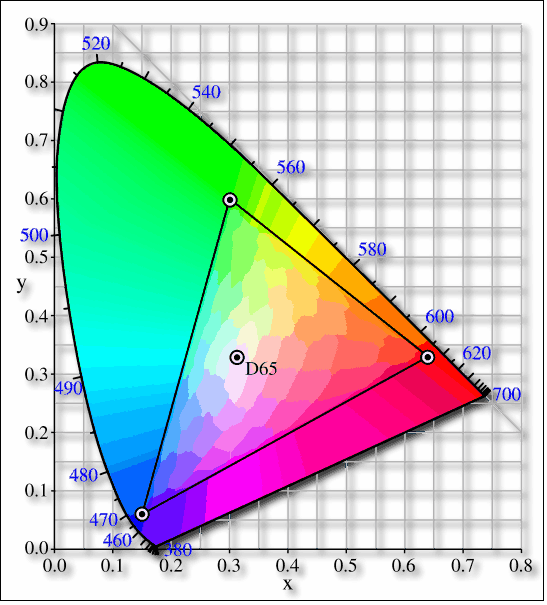
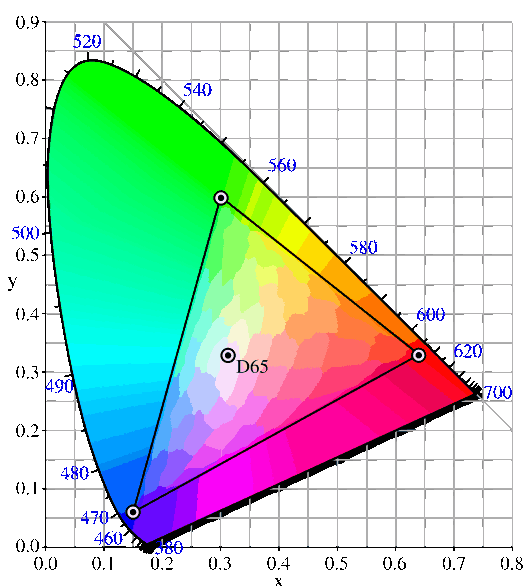
editor++

diff --git a/image_editor/raw_processing.rst b/image_editor/raw_processing.rst
@@ -15,8 +15,8 @@ RAW Processing
 
 .. contents::
 
-Color Management Overview
--------------------------
+The Color Management
+--------------------
 
 The point of a color-managed workflow is to ensure that the colors coming from your camera or scanner have a predictable relationship with the colors you actually photographed or scanned, that the colors displayed on your monitor match the colors coming from your camera or scanner, and that the colors you print or display on the web match the colors you produced in your digital darkroom.
 
@@ -45,7 +45,7 @@ If your imaging workflow meets all six criteria listed below, then you don't nee
     Your only other image output is via email or the web, where sRGB is the de facto standard.
 
 More definitions about Color Management
----------------------------------------
+~~~~~~~~~~~~~~~~~~~~~~~~~~~~~~~~~~~~~~~
 
 You've reached the end of this tutorial on color management. We've "color-managed" our way all the way from the camera and the monitor, to the working space, to the printer. I've learned a lot and I hope you have, too. What follow is some additional comments and definitions:
 
@@ -80,7 +80,7 @@ Copyrighted and copyleft working spaces: I will take it as given that all the or
 And quite a few other working spaces that could be added to this list, are all more or less suitable as working spaces. Which working space you should use depends only and solely on you, on your requirements as the editor of your digital images with your eventual output intentions (web, fine art print, etc.). However, as a critical aside, if you are using Adobe or other copyrighted working space profiles, these profiles contain copyright information that shows up in your image exif information. Lately I've been perusing the openicc mailing lists. Apparently LCMS can be used to produce nonbranded, copyleft working space profiles that are just the same as - actually indistinguishable from - the branded, copyrighted working space profiles. It would be a wonderful addition to digiKam if a set of "copyleft" working space profiles, including nonbranded, relabelled versions of ProPhotoRGB, AdobeRGB, and Adobe WidegamutRGB (perhaps in two flavors each: linear gamma and the usual gamma), could be bundled as part of the digiKam package.
 
 The Color Space Connections
----------------------------
+~~~~~~~~~~~~~~~~~~~~~~~~~~~
 
 So the question for each RGB trio of values in the (let us assume) 16-bit tiff produced by dcraw becomes, "What does a particular trio of RGB values for the pixels making up images produced by this particular (make and model) camera really mean in terms of some absolute standard referencing some ideal observer". This absolute standard referencing an ideal observer is more commonly called a Profile Connection Space. A camera profile is needed to accurately characterize or describe the response of a given camera's pixels to light entering that camera, so that the RGB values in the output file produced by the raw converter can be translated first into an absolute Profile Connection Space (PCS) and then from the PCS to your chosen working space. As a very important aside, for most of the open source world (including digikam), the software used to translate from the camera profile to the PCS and from the PCS to your chosen working space and eventually to your chosen output space (for printing or perhaps monitor display) is based on lcms (the little color management engine). For what it's worth, my own testing has shown that lcms does more accurate conversions than Adobe's proprietary color conversion engine. Further, for almost all raw conversion programs, including commercial closed source software such as Adobe Photoshop, the raw conversion is typically based on decoding of the proprietary raw file done by dcraw. David Coffin, author of dcraw, is the hero of raw conversion - without him we'd all be stuck using the usually windows/mac only proprietary software that comes with our digital cameras. The dcraw's interpolation algorithms (not to be confused with the aforementioned decoding of the proprietary raw file), which are part of digiKam if properly used, produce results equal or superior to commercial, closed source software. We in the world of Linux® and open source software are not second-class citizens when it comes to digital imaging. Far from.
 
@@ -97,19 +97,19 @@ There are two commonly used Profile Connection Spaces - CIELAB and CIEXYZ (see C
 To back up a little bit and look at the first color profile an image encounters, that is, the camera profile (see (1) immediately above) - dcraw can in fact apply your camera profile for you (dcraw uses lcms internally). But (i)the generating of the tiff composed of the interpolated RGB values derived from the camera raw file, and (ii)the application of the camera profile to the interpolated file, are two very distinct and totally separable (separable in theory and practice for dcraw; in theory only for most raw converters) steps. The dcraw command line output options "-o 0 [Raw color (unique to each camera)] -4 [16-bit linear] -T [tiff]" tell dcraw to output the RGB numbers from the raw interpolation into a tiff without applying a camera input profile (the words in brackets explain the options but should not be entered at the command line). Then, if you truly enjoy working from the command line, you can use the lcms utility tifficc to apply your camera profile yourself. The advantage of doing so is that you can tell lcms to use high quality conversion (dcraw seems to use the lcms default medium). The disadvantage, of course, is that applying your camera profile from the command line adds one extra step to your raw workflow.
 
 Where to find camera profiles
------------------------------
+~~~~~~~~~~~~~~~~~~~~~~~~~~~~~
 
 So where do we get these elusive and oh-so-necessary camera-specific profiles that we need to translate our interpolated raw files to a working color space? The UFRAW website section on color management has a bit of information on where to find ready-made camera profiles. It's an unfortunate fact of digital imaging that the camera profiles supplied by Canon, Nikon, and the like don't work as well with raw converters other than each camera manufacturer's own proprietary raw converter. Which is why Bibble and Phase One (and Adobe, but ACR hides the Adobe-made profiles inside the program code), for example, have to make their own profiles for all the cameras that they support - keep this proprietary propensity of your camera manufacturer in mind next time you buy a digital camera.
 
 But back to finding a camera profile for your camera - the real answer (assuming you don't find a ready-made profile that makes you happy) is to make your own camera profile or have one made for you. There are quite a few commercial services who provide profiling services (for a fee, of course). Or you can use LPRof or Argyll to profile your camera yourself. I haven't yet walked down that road so I cannot speak about how easy or difficult the process of profiling a camera might be. But I would imagine, knowing how very meticulous the people behind Argyll, LPRof, and lcms are about color management, that making your own camera profile is very do-able and very likely the results will be better than any proprietary profile. After all, Canon (and also Bibble and Phase One for that matter) didn't profile MY camera - they just profiled a camera like mine.
 
 Working Spaces
---------------
+~~~~~~~~~~~~~~
 
 So now your raw file has been interpolated by dcraw and you've obtained a camera profile and used lcms tifficc to apply your camera profile to the tiff produced by dcraw (or you've asked dcraw to apply it for you). What does all this mean? The real answer involves a lot of math and color science that goes way over my head and likely yours. The short, practical answer is that neither the camera profile space nor the Profile Connection Space is an appropriate space for image editing. Your next step is to choose a working space for image editing. And then you (or rather the lcms color management engine that your open source digital imaging software uses) actually perform a double translation. First lcms uses the camera profile to translate the RGB values of each pixel in the dcraw-output-image-without-camera-profile-applied into the aforementioned Profile Connection Space. Then it translates the RGB values of each pixel from the PCS to your chosen working space.
 
 Confusions and confusing terminology
-------------------------------------
+~~~~~~~~~~~~~~~~~~~~~~~~~~~~~~~~~~~~
 
 Before talking more about working spaces, some confusions and confusing terminology needs to be cleared up:
 
@@ -126,7 +126,7 @@ Sixth (and again, strictly for future reference), assign a profile means change 
 Finally, (and this is a crucially important point), color management is NOT only relevant if you shoot raw. Color management affects every stage of the image processing pipeline, whether you start with a raw file that you, yourself interpolate and translate into a tiff, or if you start with a jpeg or tiff produced by your camera.
 
 Copyrighted and copyleft working spaces
----------------------------------------
+~~~~~~~~~~~~~~~~~~~~~~~~~~~~~~~~~~~~~~~
 
 I will take it as given that ALL the ordinarily encountered working spaces, such as:
 
@@ -143,7 +143,7 @@ I will take it as given that ALL the ordinarily encountered working spaces, such
 However, as a critical aside, if you are using Adobe (or other copyrighted) working space profiles, these profiles contain copyright information that shows up in your image exif information. Lately I've been perusing the openicc mailing lists. Apparently lcms can be used to produce nonbranded, copyleft working space profiles that are just the same as - actually indistinguishable from - the branded, copyrighted working space profiles. It would be a wonderful addition to digikam if a set of "copyleft" working space profiles, including nonbranded, relabelled versions of ProPhotoRGB, AdobeRGB, and Adobe WidegamutRGB (perhaps in two flavors each: linear gamma and the usual gamma), could be bundled as part of the digiKam package.
 
 Which working space: gamma
---------------------------
+~~~~~~~~~~~~~~~~~~~~~~~~~~
 
 Now, the next question is: which working space should I use? Wikipedia says:
 
@@ -157,7 +157,7 @@ I am not aware of a list of other technical requirements for a suitable working 
 
     White point, usually D50 or D65, which dictates the total dynamic range of the working space, from 0,0,0 (total black) to the brightest possible white.
 
-    Gamma. 
+    Gamma.
 
 The practical consequences that result from using different RGB primaries, leading to larger or smaller working spaces, are discussed below. The practical consequences for different choices for the working space white point are beyond the scope of this tutorial. Here I will talk a little bit about the practical consequences of the working space gamma (for an excellent article and references, look up gamma on wikipedia).
 
@@ -176,7 +176,7 @@ In addition to gamma 1.8 and gamma 2.2 the only other gamma for a working space 
 Unfortunately and despite their undeniable mathematical advantages, linear gamma working spaces have so few tones in the shadows that (in my opinion) they are impossible to use for editing if one is working in 8-bits, and still problematic at 16-bits. When the day comes when we are all doing our editing on 32-bit files produced by our HDR cameras on our personal supercomputers, I predict that we will all be using working spaces with gamma 1; Adobe Lightroom is already using a linear gamma working space "under the hood" and Lightzone has always used a linear gamma working space.
 
 Which working space: large gamut or small gamut
------------------------------------------------
+~~~~~~~~~~~~~~~~~~~~~~~~~~~~~~~~~~~~~~~~~~~~~~~
 
 One major consideration in choosing a working space is that some working spaces are bigger than others, meaning they cover more of the visible spectrum (and perhaps even include some imaginary colors - mathematical constructs that don't really exist). These bigger spaces offer the advantage of allowing you to keep all the colors captured by your camera and preserved by the lcms conversion from your camera profile to the really big profile connection space.
 
@@ -195,12 +195,12 @@ In other words, large gamut working spaces, improperly handled, can lead to lost
 The whys of these bits of advice regarding which working space are beyond the scope of this tutorial. See Bruce Lindbloom's excellent website (Info, Information about RGB Working Spaces) for a visual comparison of the gamut (array of included colors) of the various working color spaces. See here and here for a pro and con presentation, respectively, of the merits of using large gamut working spaces. And while you are on the cambridgeincolour.com website, check out the tutorial on color management.
 
 Soft Proofing
--------------
+~~~~~~~~~~~~~
 
 Soft Proofing is a way of previewing on the screen (monitor) the result to be expected from an output on another device, typically a printer. Soft proofing will show you the difference to be expected before you actually do it (and waste your costly ink). So you can improve your settings without wasting time and money.
 
 Rendering intention
--------------------
+~~~~~~~~~~~~~~~~~~~
 
 Rendering intent refers to the way gamuts are handled when the intended target color space cannot handle the full gamut.
 
@@ -213,10 +213,157 @@ Rendering intent refers to the way gamuts are handled when the intended target c
     Saturation, also called Graphic or Preserve Saturation. Maps the saturated primary colors in the source to saturated primary colors in the destination, neglecting differences in hue, saturation, or lightness. For block graphics; rarely of interest to photographers. 
 
 Links
------
+~~~~~
 
     `Color wiki <http://www.oyranos.org/wiki/>`_
 
     `CIELab <https://en.wikipedia.org/wiki/CIELAB_color_space#CIELAB>`_
 
     `Gamut explained <https://en.wikipedia.org/wiki/Gamut>`_
+
+The Working Space
+-----------------
+
+Overview
+~~~~~~~~
+
+So I told digiKam where to find my monitor profile and I have a camera profile that I applied to the image file produced by my raw processing software. What's the next step in color management?
+
+You need to choose a working color space so you can edit your image. LCMS will transform your image from your camera color space to your chosen working space, via the PCS specified by your camera color profile.
+Why cannot I just edit my images in the color space described by the camera profile?
+
+After all, the camera profile should provide the best "fit" to the colors recorded by my camera, as processed by my raw processing procedure, right? Wikipedia says, "Working spaces, such as sRGB or Adobe RGB, are color spaces that facilitate good results while editing. For instance, pixels with equal values of RGB should appear neutral." "[P]ixels with equal values of RGB should appear neutral" just means that for any given pixel in an image that has been converted to a suitable working space, if R=G=B you should see grey or black or white on your screen. Many camera profiles violate this "neutral" condition. I am not aware of a list of other technical requirements for a suitable working space. However, I can think of another good reason why you wouldn't want to edit your image in your camera profile color space. If you look at the size of a typical camera profile, it is on the order of a quarter to a half a megabyte or more. It's got a lot of information about all the changes that need to be made at different regions of color and tonality in the original scene, to get accurate color rendition from the RGB values that come out of the raw processor. The camera profile is accurate (at least for colors in the original target) but not particularly mathematically smooth. Working space color profiles, on the other hand, are very small in size (half a kilobyte instead of half a megabyte) because they describe a color gamut in terms of smooth, continuous mathematical functions. Working space profiles don't need to make allowances for the "messiness" of real world sensors, so the mathematical manipulations performed during image editing will go much more smoothly and accurately than if you try to edit your image while it is still in the camera color space.
+
+Which working space should I choose?
+~~~~~~~~~~~~~~~~~~~~~~~~~~~~~~~~~~~~
+
+Everyone has an opinion. I'm just going to lay out some of the bits of information needed to make an informed choice. Working space profiles are characterized by:
+
+    Gamma (or other transfer function), which dictates how much the original linear intensity values captured by the camera sensor (and subjected to the in-camera A-to-D conversion, then interpolated by the raw processing program to produce the image file) are altered to make editing easier or more precise.
+
+    RGB primaries which dictate the range of colors, that is, the color gamut, covered by a given profile.
+
+    White point (usually D50 or D65 though other values may be used), which specifies the color temperature of the white point of the working space. 
+
+What gamma should my working space have?
+
+The gamma of a color profile dictates what power transform needs to take place to properly convert from an image's embedded color profile (perhaps your working color space or your camera color profile) to another color profile with a different gamma, such as your chosen working space, or the display profile used to display the image on the screen or perhaps from one working space to another, or perhaps from your working space to your printer's color space. Dcraw outputs a 16-bit image with a linear gamma, which means that a histogram of the resulting image file shows the actual amount of light that each pixel on the camera sensor captured during the exposure (paraphrasing this page). (Which is why at present applying a camera profile to the dcraw output also requires applying an appropriate gamma transform to get to the desired working space, unless the camera profile also uses gamma=1.)
+
+One practical consequence of the gamma of a working space is that the higher the gamma, the more discrete tones are available for editing in the shadows, with consequently fewer tones available in the highlights. Changing the gamma of an image redistributes the number of tones available in the lighter and darker areas of an image. Theoretically, if you are working on a very dark-toned (low key) image you might want a working space with a higher gamma. And if you are working on a high key image, say a picture taken in full noon sunlight of a wedding dress with snow as a backdrop, you might want to choose a working space with a lower gamma, so you have more available tonal gradations in the highlights.
+
+Theory aside, in the real world of real image editing, almost everyone uses working spaces with either a gamma of either 1.8 or 2.2. sRGB and L*-RGB are two notable exceptions.
+
+sRGB uses a transfer function close to that of a CRT (and thus not necessarily relevant to image editing or to display on an LCD). As Wikipedia notes, "Unlike most other RGB color spaces the sRGB gamma can not be expressed as a single numerical value. The overall gamma is approximately 2.2, consisting of a linear (gamma 1.0) section near black, and a non-linear section elsewhere involving a 2.4 exponent and a gamma (slope of log output versus log input) changing from 1.0 through about 2.3" (cited from this page), which makes for some complicated math during image processing.
+
+L*-RGB uses as its transfer function the same perceptually uniform transfer function as the CIELab color space. "When storing colors in limited precision values" using a perceptually uniform transfer function "can improve the reproduction of tones" (cited from this page).
+
+In addition to gamma=1.8 and gamma=2.2, the only other gamma for a working space that gets much mention or use is linear gamma, or gamma=1.0. As noted above, dcraw outputs linear gamma files if you ask for 16-bit output. Linear gamma is used in HDR (high dynamic range) imaging and also if one wants to avoid introducing gamma-induced errors into one's regular low dynamic range editing.
+
+"Gamma-induced errors" is a topic outside the scope of this tutorial. But see "Gamma errors in picture scaling" (cited from this page) for gamma-induced tonality shifts; and of course see Timo Autiokari's informative (albeit somewhat infamous) website for a whole-hearted endorsement of using linear gamma working spaces (Timo's website seems to be down at present, though archived copies of his articles are still available through google). Bruce Lindbloom mentions a commonly-encountered gamma-induced error that is caused by incorrectly calculating luminance in a nonlinear RGB working space (see this page, sidenote 1). And in a similar vein, the calculations involved in mixing colors together to produce new colors (such as using a digital filter to add warmth to an image) result in gamma errors unless the new colors are calculated by first transforming all the relevant values back to their linear values.
+
+Unfortunately and despite their undeniable mathematical advantages, linear gamma working spaces have so few tones in the shadows that (in my opinion) they are impossible to use for editing if one is working in 8-bits, and still problematic at 16-bits. When the day comes when we are all doing our editing on 32-bit files produced by our HDR cameras on our personal supercomputers, I predict that we will all be using working spaces with gamma=1. Adobe Lightroom is already using a linear gamma working space "under the hood", CS2 allows the option of using linear gamma for mixing colors, and Lightzone has always used a linear gamma working space.
+
+How many discrete tonal steps are there in a digital image?
+~~~~~~~~~~~~~~~~~~~~~~~~~~~~~~~~~~~~~~~~~~~~~~~~~~~~~~~~~~~
+
+In an 8-bit image, you have 256 tonal steps from solid black to solid white. In a 16-bit image theoretically you have 65536 steps. But remember, those 16-bits started out as either 10 bits (=1024 steps), 12 bits (=4096 steps), or 14 bits (=16384 steps) as produced by the camera's A-to-D converter - the extra bits to reach 16-bits start out as just padding. The available tones are not distributed evenly from light to dark. In linear gamma mode (as the camera sensor sees things), there's a whole lot more tones in the highlights than in the shadows. Hence the advice, if you shoot raw, to "expose to the right but don't blow the highlights". See Ron Bigelow's articles on "why raw", for a full discussion of the distribution of available tones in a raw image.
+
+Should I use a large-gamut or a small-gamut working space?
+~~~~~~~~~~~~~~~~~~~~~~~~~~~~~~~~~~~~~~~~~~~~~~~~~~~~~~~~~~
+
+One major consideration in choosing a working space is that some working spaces are bigger than others, meaning they cover more of the visible spectrum (and as a consequence include some imaginary colors - mathematical constructs that don't really exist). These bigger spaces offer the advantage of allowing you to keep all the colors captured by your camera and preserved by the LCMS conversion from your camera profile to the super-wide-gamut profile connection space and out again to your chosen working space.
+
+But keeping all the possible colors comes at a price, as explained below. And it seems that any given digital image likely only contains a small subset of all the possible visible colors that your camera is capable of capturing. This small subset is easily contained in one of the smaller working spaces (an exception requiring a larger color gamut would be a picture of a highly saturated object such as yellow daffodil).
+
+Using a very large working space means that editing your image (applying curves, increasing saturation, etc.) can easily produce colors that your eventual output device (printer, monitor) simply cannot reproduce (you cannot see these colors while you're editing, either). So the conversion from your working space to your output device space (say your printer) will have to remap the out-of-gamut colors in your edited image, some of which might even be totally imaginary, to your printer color space with its much smaller color gamut. This remapping process will lead to inaccurate colors and loss of saturation at best. Even worse, the remapping can easily lead to banding (posterization - gaps in what should be a smooth color transition, say, across an expanse of blue sky) and clipping (e.g. your carefully crafted muted transitions across delicate shades of red, for example, might get remapped to a solid block of dull red after conversion to your printer's color space). Also, the experts say that 8-bit images just don't have enough tones to stretch across a wide gamut working space without banding and loss of saturation, even before conversion to an output space. So if you choose a large gamut working space, make sure you start with a 16-bit image.
+
+To summarize, large gamut working spaces, improperly handled, can lead to lost information on output. Small gamut working spaces can clip information on input. Medium-sized gamut working spaces try to strike a happy medium. Like Wikipedia says, it's a trade-off.
+
+Here are some oft-repeated bits of advice on choosing a working space:
+
+    For images intended for the web, use (or at least convert the final image to) sRGB.
+
+    For the most accuracy in your image editing (that is, making the most of your limited "bits" with the least risk of banding or clipping when you convert your image from your working space to an output space), use the smallest working space that includes all the colors in the scene that you photographed, plus a little extra room for those new colors you intentionally produce as you edit.
+
+    If you are working in 8-bits rather than 16-bits, choose a smaller rather than a larger working space to avoid clipping and banding.
+
+    For archival purposes, convert your raw file to a 16-bit tiff with a large gamut working space to avoid loosing color information. Then convert this archival tiff to your medium-gamut or large-gamut working space of choice (saving the converted working tiff under a new name, of course). 
+
+For more information on choosing a working space, see this page, Information about RGB Working Spaces for a visual comparison of the gamut (array of included colors) of the various working color spaces. See here and here for a pro- and con- presentation, respectively, of the merits of using large gamut working spaces. And while you are on the cambridgeincolour.com website, check out the tutorial on color management.
+
+The sRGB color space
+--------------------
+
+What is so special about the sRGB color space?
+~~~~~~~~~~~~~~~~~~~~~~~~~~~~~~~~~~~~~~~~~~~~~~
+
+sRGB is widely accepted as a standard color profile by virtually everyone involved with consumer-oriented imaging. sRGB was proposed in 1996 by Hewlett Packard and Microsoft as a standardized color space for consumer-oriented applications. As stated in the initial HP/MS proposal:
+
+    Hewlett-Packard and Microsoft propose the addition of support for a standard color space, sRGB, within the Microsoft operating systems, HP products, the Internet, and all other interested vendors. The aim of this color space is to complement the current color management strategies by enabling a third method of handling color in the operating systems, device drivers and the Internet that utilizes a simple and robust device independent color definition. This will provide good quality and backward compatibility with minimum transmission and system overhead. Based on a calibrated colorimetric RGB color space well suited to Cathode Ray Tube (CRT) monitors, television, scanners, digital cameras, and printing systems, such a space can be supported with minimum cost to software and hardware vendors... 
+
+    Currently, the ICC [International Color Consortium]... tracks and ensures that a color is correctly mapped from the input to the output color space... by attaching a profile for the input color space to the image in question. This is appropriate for high end users. However, there are a broad range of users that do not require this level of flexibility and control. Additionally, most existing file formats do not, and may never support color profile embedding, and finally, there are a broad range of uses [that] actually discourage people from appending any extra data to their files. A common standard RGB color space addresses these issues ... by merging the many standard and non-standard RGB monitor spaces into a single standard RGB color space. Such a standard could dramatically improve the color fidelity in the desktop environment. For example, if operating system vendors provide support for a standard RGB color space, the input and output device vendors that support this standard color space could easily and confidently communicate color without further color management overhead in the most common situations. (archived copy) 
+
+To summarize, the point of the by-now almost universally adopted sRGB color space was and is to make life easier for consumers (no need to worry about color management), less expensive for manufacturers (no need to worry about compatibility between consumer-level digital cameras or scanners, monitors, printers, and so forth), and more convenient for displaying images on the Internet (don't worry about embedding and reading icc profiles - just assume sRGB).
+
+So if sRGB works so well and makes life so easy for everyone, why use any other color space and thus be forced to worry about color management issues?
+
+sRGB was designed to contain colors easily displayed on consumer-oriented monitors and printed by consumer-oriented printers manufactured in 1996. This least-common-denominator set of viewable and printable colors - the technical term is "color gamut" - is much smaller than the set of colors we can see in the real world, much smaller than the set of colors today's digital cameras can capture, much smaller than the set of colors today's printers can print, and much smaller than the color gamut of the new wide gamut monitors that are beginning to enter the consumer market. For anyone who wants to make use of the wider color gamuts available today even at the consumer level, the gamut of sRGB is too small. Conversely, if you don't intend to make use of an expanded gamut of colors at any point in your digital imaging workflow, then you don't need to worry about non-sRGB color spaces and all the attending intricacies of color management.
+
+How small is sRGB?
+~~~~~~~~~~~~~~~~~~
+
+A visual representation of the limitations of sRGB compared to the colors we actually see in the real world is presented here after. It shows a two-dimensional representation of all the colors we can see (the horseshoe-shaped region) and the colors contained in the sRGB space (the smaller triangular region).
+
+.. figure:: images/editor_cm_542px_CIExy1931_sRGB.png
+
+If you would like to see a two-dimensional representation of sRGB compared to some of the larger working color spaces, see Bruce Lindbloom's excellent site, click on "Info" then on "Information About RGB Working Spaces".
+
+Calibrating and Profiling Your Monitor RGB
+~~~~~~~~~~~~~~~~~~~~~~~~~~~~~~~~~~~~~~~~~~
+
+If I choose to work exclusively in the sRGB color space, do I need to calibrate my monitor?
+
+Yes! Whether you stay within the color gamut provided by sRGB or not, you need a properly calibrated monitor because sRGB assumes that your monitor is calibrated to sRGB. Your monitor calibration closes the loop. If you work within the color gamut provided by sRGB then you need to calibrate your monitor to the sRGB standard (or produce and use an accurate monitor profile, or both).
+What are the consequences of working with an uncalibrated monitor?
+
+There are several possible consequences, none of them good. Every monitor, calibrated or otherwise, has a native (uncalibrated) white point, expressed as a temperature in degrees Kelvin. The white point of a monitor (calibrated or not) is the color you see when you are looking at a patch of pure white on your screen. Pure white is when the RGB values in your image all equal 255 (as expressed in 8-bits), such as the plain white background of a web page or an office document. You are thinking, "white is white" but if you were able to line up several monitors calibrated to different white points, you would see that the higher the temperature of the monitor's white point, the bluer the screen looks in comparison with monitors with lower white points. If you can find the controls of your own monitor, change the temperature up and down (remembering to put it back to its initial setting when you are done, unless you decide you want a different white point). Your eyes, which adapt quickly to a constant white point, will easily discern the screen getting bluer and yellower as you move the white point higher and lower. If your uncalibrated monitor is too blue (native CRT color temperature is typically 9300K and sRGB assumes 6500K), as you edit your image you will overcompensate and produce images that will look yellowish and too warm on a properly calibrated monitor. Conversely, if your monitor is too yellow because the color temperature is set too low (I believe LCD native color temperature is around 5500K), your images will look blueish/too cool on a properly calibrated monitor.
+
+Setting a proper white point is only part of monitor calibration. You also need a proper black point, brightness (luminance), and gamma (transfer) function. If your monitor is too dark because the black point is set too low, you will overcompensate and produce images that look washed out on a properly calibrated monitor. Conversely, if your monitor black point is set too high, your images will look took dark and overly saturated on a properly calibrated monitor.
+
+If the brightness/contrast is set too high, you will assume your images have a lot more "pop" than they really have when viewed on a properly calibrated monitor, plus your eyes will hurt and your LCD screen will burn out faster.
+
+If your monitor gamma is improperly set, your tonal variations from dark to light will be off. That is, the shadows or highlights might be overly compressed or expanded, leading you to compensate in the opposite direction. So when viewed on a properly calibrated monitor, the shadows might be too bright or dark (or the highlights too dark or bright), with the rest of the image suffering from tonal over-compression. And heaven help you if the internal R, G, and B guns (or LCD equivalent) of your monitor are improperly set (each gun has its own black point and gain), because the resulting color casts - too green, too magenta, too orange, etc. that you will inevitably create by "correcting" your image during editing - are very obvious when viewed on a properly calibrated monitor.
+
+Whether or not your monitor is properly calibrated, you might be surprised by the results of comparing an image you've edited on your home monitor to the same image as displayed by other monitors in your house or on your friend's and neighbor's monitors. We certainly were - we have two Sony Trinitron monitors in our home, one with a failing (too high) green gun and one with a failing (too high) blue gun. Every image edited on either monitor looked very wrong on the other monitor, until we purchased a spectrophotometer to calibrate and profile both monitors. Unfortunately, at this point neither of these two monitors can be calibrated to display a proper black point, so they are no longer used for image editing - the point being that an additional benefit of using a spectrophotometer is you know when it's time replace your monitor.
+The meaning of "black point" and "brightness" seems pretty clear, but what does "gamma" mean?
+
+See this Wikipedia article for an overview of the role of gamma in monitors and photography; the links at the bottom of the article are all excellent sources of additional information. Wikipedia says "Gamma compression, also known as gamma encoding, is used to encode linear luminance or RGB values into video signals or digital video file values; gamma expansion is the inverse, or decoding, process ... Gamma encoding helps to map data (both analog and digital) into a more perceptually uniform domain." Yeah, I know, clear as mud. Read the Wikipedia article and study the pictures. Eventually it will sink in. If you wade very deeply into image editing and color management, eventually you will need to make decisions about what gamma (or other encoding/decoding function) you want to use when you calibrate your monitor, profile your digital camera, and choose a working color space. When in doubt (for those of you who just want to know which button to push!), gamma=2.2 is a widely-used value, both for monitor calibration and working color spaces.
+What's the difference between calibrating a monitor and profiling a monitor?
+
+When first learning about color management, many people are confused about the difference between calibrating and profiling a monitor (I know I was). Quoting from Hal Engel's excellent discussion in the digiKam users forum:
+
+    Calibration is a process where a device is brought into some defined state by making adjustments to its controls or some other physical means. For example, the act of calibrating a monitor involves adjusting its white point, black level, luminosity and gamma to predetermined or standard values using the monitor's controls and by altering the video card gamma ramp... In contrast to calibration, the process of creating a profile is a characterization of the device that does not involve making any changes or adjustments to the device. Rather it is a measurement process that results in a file that contains a precise mathematical description of the device's color and tonality characteristics. This file is an ICC profile. These characteristics include the transfer function from the device's color space to a standardized absolute color space (this is called a Profile Color Space, PCS, in an ICC profile), the device's white point, black point, primaries and other information. Displays are normally characterized (profiled) in their calibrated state. To summarize, calibration makes changes to the device to alter it's color reproduction characteristics to conform to some predetermined state. Profiling or characterization is a measurement process that results in a detailed description of the device's (normally calibrated) color reproduction characteristics. (cited from here) 
+
+Calibrating your monitor technically is not really part of color management. But obviously a properly calibrated and/or profiled monitor is a prerequisite for a color-managed workflow. This tutorial does not cover the important topics of how to calibrate and profile a monitor. The ArgyllCMS and LProf documentations are very good and highly recommended reading. To use either of this software to calibrate and/or profile your monitor, you will need a spectrophotometer. A spectrophotometer (sometimes called a "spider") is a device for measuring the RGB values of color patches projected onto the monitor screen by calibration/profiling software such as Argyll and LProf. The Argyll website maintains an up-to-date list of supported spectrophotometers. I believe LProf can use all the spectrophotometers that Argyll can use, as the two programs share the relevant sections of code.
+
+Can I calibrate my monitor without a spectrophotometer?
+~~~~~~~~~~~~~~~~~~~~~~~~~~~~~~~~~~~~~~~~~~~~~~~~~~~~~~~
+
+There are various methods given on the Internet for calibrating a monitor without using a spectrophotometer. These "eye-ball" methods are better than not calibrating your monitor at all, and depending your eyeball and your monitor, can produce quite usable results. But the eye-ball methods are not a substitute for a properly calibrated and profiled monitor. For the record, calibrating and profiling a monitor with a spectrophotometer, though intimidating at first, is not difficult. Spectrophotometers can be obtained for well under $100 US (if you opt for a more expensive model, make sure you are paying for a better piece of hardware, rather than just a more fully-featured accompanying bit of manufacturer's software that won't run under Linux). Argyll and/or LProf documentation will guide you through the process of calibrating and profiling your monitor, without your having to learn very much color management theory. And if/when you learn enough about color management to realize that you want or need a more detailed monitor profile of a particular type, for a particular purpose, these two softwares have all the advanced capabilities you could possibly hope for.
+Assuming I've decided to work exclusively in the sRGB color space, what "digiKam buttons" should I push after I calibrate my monitor?
+
+If your monitor has been calibrated to the sRGB standard and you work exclusively in the sRGB color space, then you can disable color management in digikam. You don't need to tell digiKam what monitor profile to use because digiKam defaults to using the sRGB color space as the monitor color space profile. And you don't need to tell digiKam to use a color-managed workflow because digiKam defaults to using sRGB for your camera, printer, and working space, just as laid out by HP and MS back in 1996.
+
+But if you want to take the first steps toward a color-managed workflow, then refer to corresponding page of Settings, enable color management, and select sRGB as your monitor profile, your camera profile, your working space profile, and your printer profile. If you've also used Argyll or LProf to produce a monitor profile after you calibrated your monitor - perhaps named "mymonitorprofile.icc" - then tell digiKam to use "mymonitorprofile.icc" instead of sRGB as your monitor profile.
+
+Where are all the icc profiles are located on my computer?
+~~~~~~~~~~~~~~~~~~~~~~~~~~~~~~~~~~~~~~~~~~~~~~~~~~~~~~~~~~
+
+Well, this is Linux® and it depends on where you put them. I put all my icc profiles in the /usr/share/color/icc folder, which is the closest there is at this moment to a standard Linux location for icc profiles. If you use this folder for your icc profiles, likely you will need to change permissions on the folder to allow your user read/write access. Then you just tell digiKam where your profiles are located.
+Does the lighting and wall/ceiling/drape/furniture colors near my monitor matter?
+
+Yes! Good lighting is a prerequisite for proper image editing and for comparing prints to the image on your screen. If the lighting near your workstation is too bright, colors on your monitor look too dark, and conversely. If the light from the fixtures in your workroom have a low CRI (color rendering index, meaning you don't have full spectrum bulbs), or if the light in your workroom comes from a window and so varies as the weather and time of day varies (or worse, is filtered through colored drapery), or if the walls and ceiling are creating color casts on your monitor, then your editing process will "correct" color casts that don't really exist. Best advice, as far as is consistent with maintaining harmony in the family: neutral grey walls and ceiling, cover the windows, wear neutral clothing, set appropriate light levels using appropriate bulbs and fixtures. For more information on what are the appropriate light levels, bulbs and fixtures for editing images and viewing prints, see the following articles:
+
+    `The Darkroom Makes a Comeback (part 1) <https://creativepro.com/the-darkroom-makes-a-comeback/>`_
+
+    `The Darkroom Makes a Comeback (part 2) <https://creativepro.com/the-darkroom-makes-a-comeback-part-2-/>`_

diff --git a/image_editor/transform_tools.rst b/image_editor/transform_tools.rst
@@ -246,4 +246,3 @@ To assist you in aligning, the tool provides a vertical and horizontal guide. Mo
 After you have sheared an image, there will be unpleasant triangular "holes" at the corners. One way to fix them is to crop the image with Transform → Crop Image Editor menu.
 
 .. figure:: images/editor_shear.png
-
